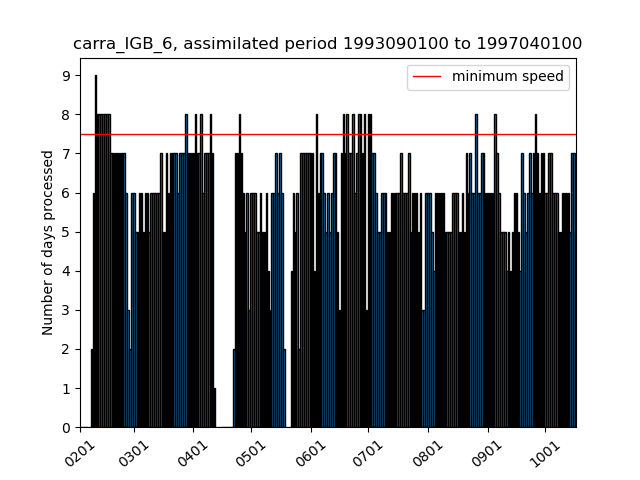
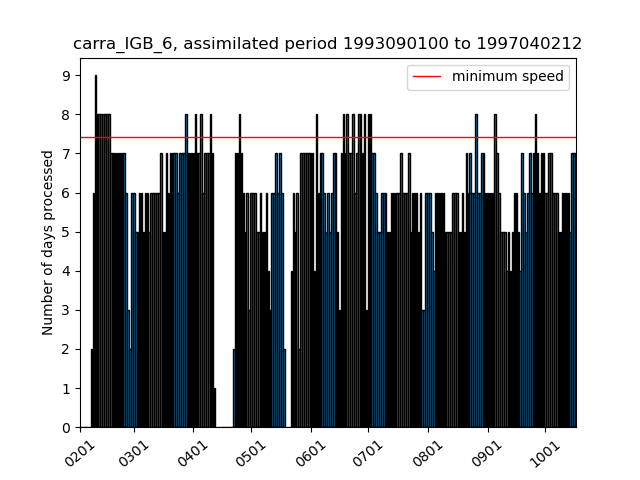
update repo

Changed region(s): [[0.125, 0.25, 0.9062, 0.3125], [0.8438, 0.0625, 0.9062, 0.125]]

diff --git a/current_state_sims.html b/current_state_sims.html
@@ -2,18 +2,18 @@
 <h1>Estimated completion dates and simulation speeds</h1>
 <p>Stream (production) completion date based on 30d (7d) moving avg speed</p>
 <p><a href="https://docs.google.com/document/d/1zDKAxuEXYnWWYzT3SZnZwY5WW8nodUMeYRjAGz46coc/edit#">Details of the calculation of the completion dates</a></p>
-<p>Last update: 2021/10/18 00:39:29 UTC</p>
-<p>Total progress CARRA: 99.66% <a href="https://hirlam.org/portal/CARRA/Progress/GanntChart_CARRA.html"> (see detailed progress meter in Gantt chart) </a></p>
+<p>Last update: 2021/10/18 06:41:54 UTC</p>
+<p>Total progress CARRA: 99.78% <a href="https://hirlam.org/portal/CARRA/Progress/GanntChart_CARRA.html"> (see detailed progress meter in Gantt chart) </a></p>
 <p>Total progress PANARCTIC: 91.67% </p>
 <p><a href="https://hirlam.org/portal/CARRA/Progress/waiting_times.html"> Queue waiting times for all streams</a></p>
 <p><a href="https://hirlam.org/portal/CARRA/Progress/mars_status.html"> MARS archive throughput </a></p>
 <html><table border="1"><tr><th>expId</th><th>Current assimilated date</th><th>End date of stream </th><th> Completion date</th><th> Avg. throughput (7d) </th> <th>Avg. throughput (30d) </th> <th> Remarks</tr>
-<tr bgcolor="#33FF38"><td>carra_NE_3</td><td>2021070100</td><td>2021063021</td><td>2021101608</td><td>(0.14) days/day</td><td>(0.6) days/day</td><td>Stream finished</tr>
+<tr bgcolor="#33FF38"><td>carra_NE_3</td><td>2021070100</td><td>2021063021</td><td>2021101614</td><td>(0.14) days/day</td><td>(0.6) days/day</td><td>Stream finished</tr>
 <tr bgcolor="#33FF38"><td>carra_NE_4</td><td>1992090100</td><td>1992083021</td><td>Finished on 20210824</td><td>(0.0) days/day</td><td>(0.0) days/day</td><td>Stream finished</tr>
 <tr bgcolor="#33FF38"><td>carra_NE_5</td><td>1994090100</td><td>1994083021</td><td>Finished on 20210824</td><td>(0.0) days/day</td><td>(0.0) days/day</td><td>Stream finished</tr>
 <tr bgcolor="#33FF38"><td>carra_NE_6</td><td>1997070100</td><td>1997063021</td><td>Finished on 20210915</td><td>(0.0) days/day</td><td>(0.0) days/day</td><td>Stream finished</tr>
-<tr bgcolor="#33FF38"><td>carra_IGB_3</td><td>2021070100</td><td>2021063021</td><td>2021101617</td><td>(0.14) days/day</td><td>(0.77) days/day</td><td>Stream finished</tr>
+<tr bgcolor="#33FF38"><td>carra_IGB_3</td><td>2021070100</td><td>2021063021</td><td>2021101623</td><td>(0.14) days/day</td><td>(0.77) days/day</td><td>Stream finished</tr>
 <tr bgcolor="#33FF38"><td>carra_IGB_4</td><td>1992090100</td><td>1992083021</td><td>Finished on 20210907</td><td>(0.0) days/day</td><td>(0.0) days/day</td><td>Stream finished</tr>
-<tr bgcolor="#33FF38"><td>carra_IGB_5</td><td>1994090100</td><td>1994083021</td><td>2021101616</td><td>(0.0) days/day</td><td>(1.5) days/day</td><td>Stream finished</tr>
-<tr bgcolor="#FFA500"><td>carra_IGB_6</td><td>1997040100</td><td>1997063021</td><td>2021110114</td><td>(6.0) days/day</td><td>(6.17) days/day</td><td>Completion date after project end (20211031)</tr>
-<tr bgcolor="#33FF38"><td>carra_pan</td><td>2018090100</td><td>2018090100</td><td>2021101800</td><td>(0.0) days/day</td><td>(2.43) days/day</td><td>Stream finished</tr>
+<tr bgcolor="#33FF38"><td>carra_IGB_5</td><td>1994090100</td><td>1994083021</td><td>2021101622</td><td>(0.0) days/day</td><td>(1.5) days/day</td><td>Stream finished</tr>
+<tr bgcolor="#FFA500"><td>carra_IGB_6</td><td>1997040212</td><td>1997063021</td><td>2021110113</td><td>(6.29) days/day</td><td>(6.23) days/day</td><td>Completion date after project end (20211031)</tr>
+<tr bgcolor="#33FF38"><td>carra_pan</td><td>2018090100</td><td>2018090100</td><td>2021101806</td><td>(0.0) days/day</td><td>(2.43) days/day</td><td>Stream finished</tr>
